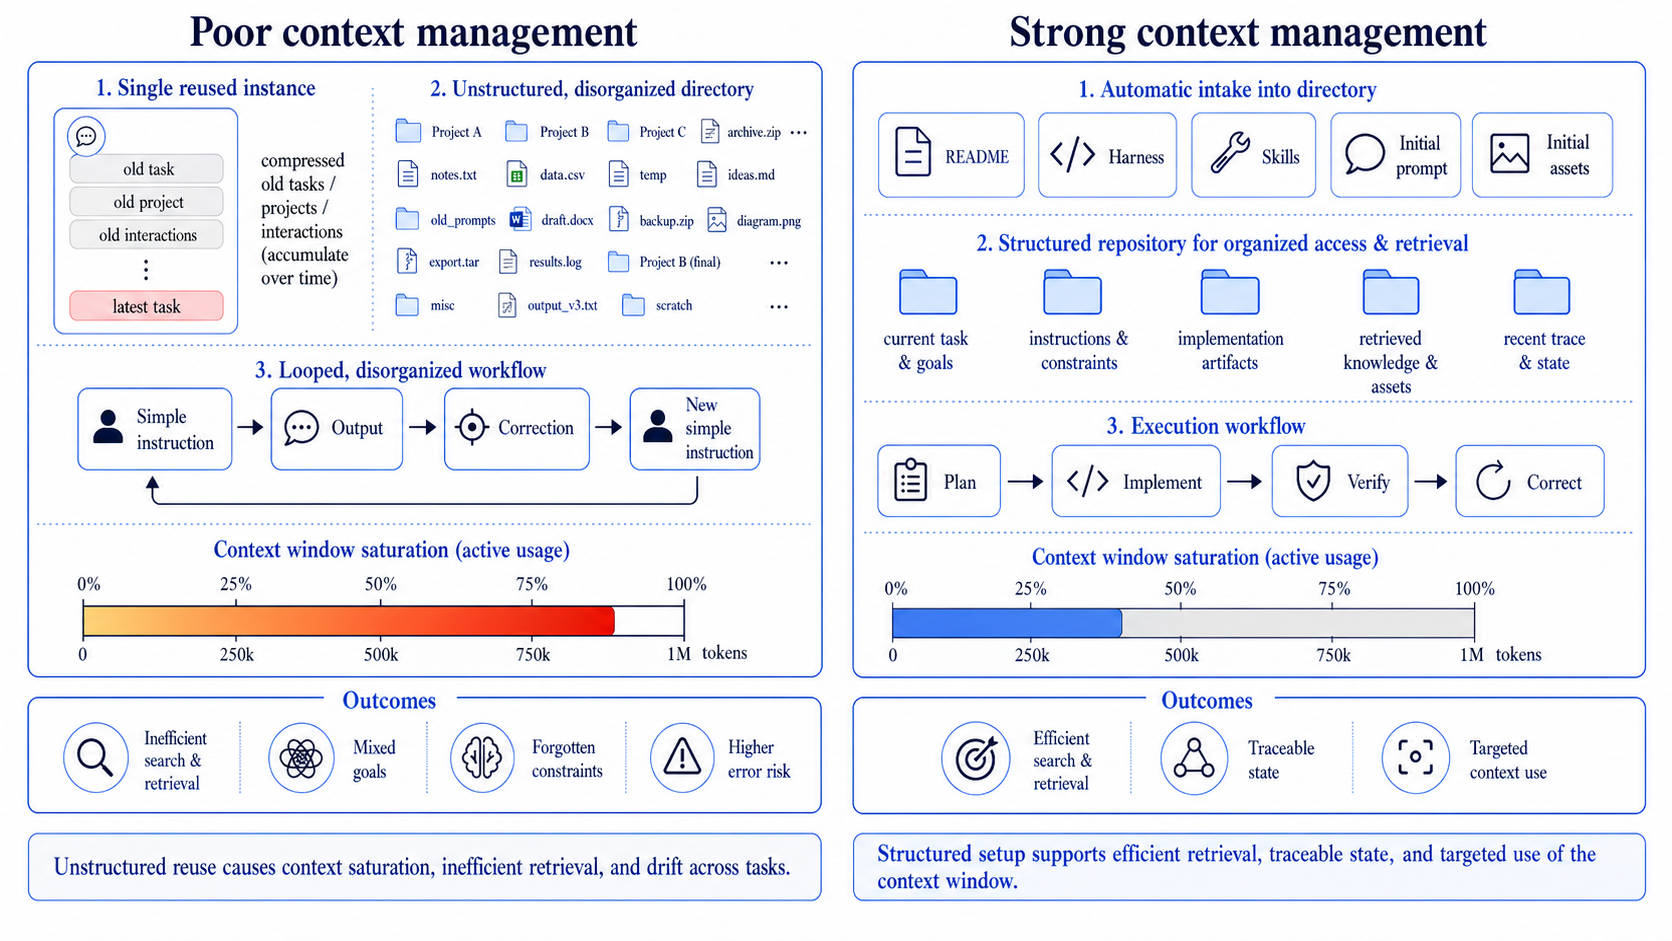
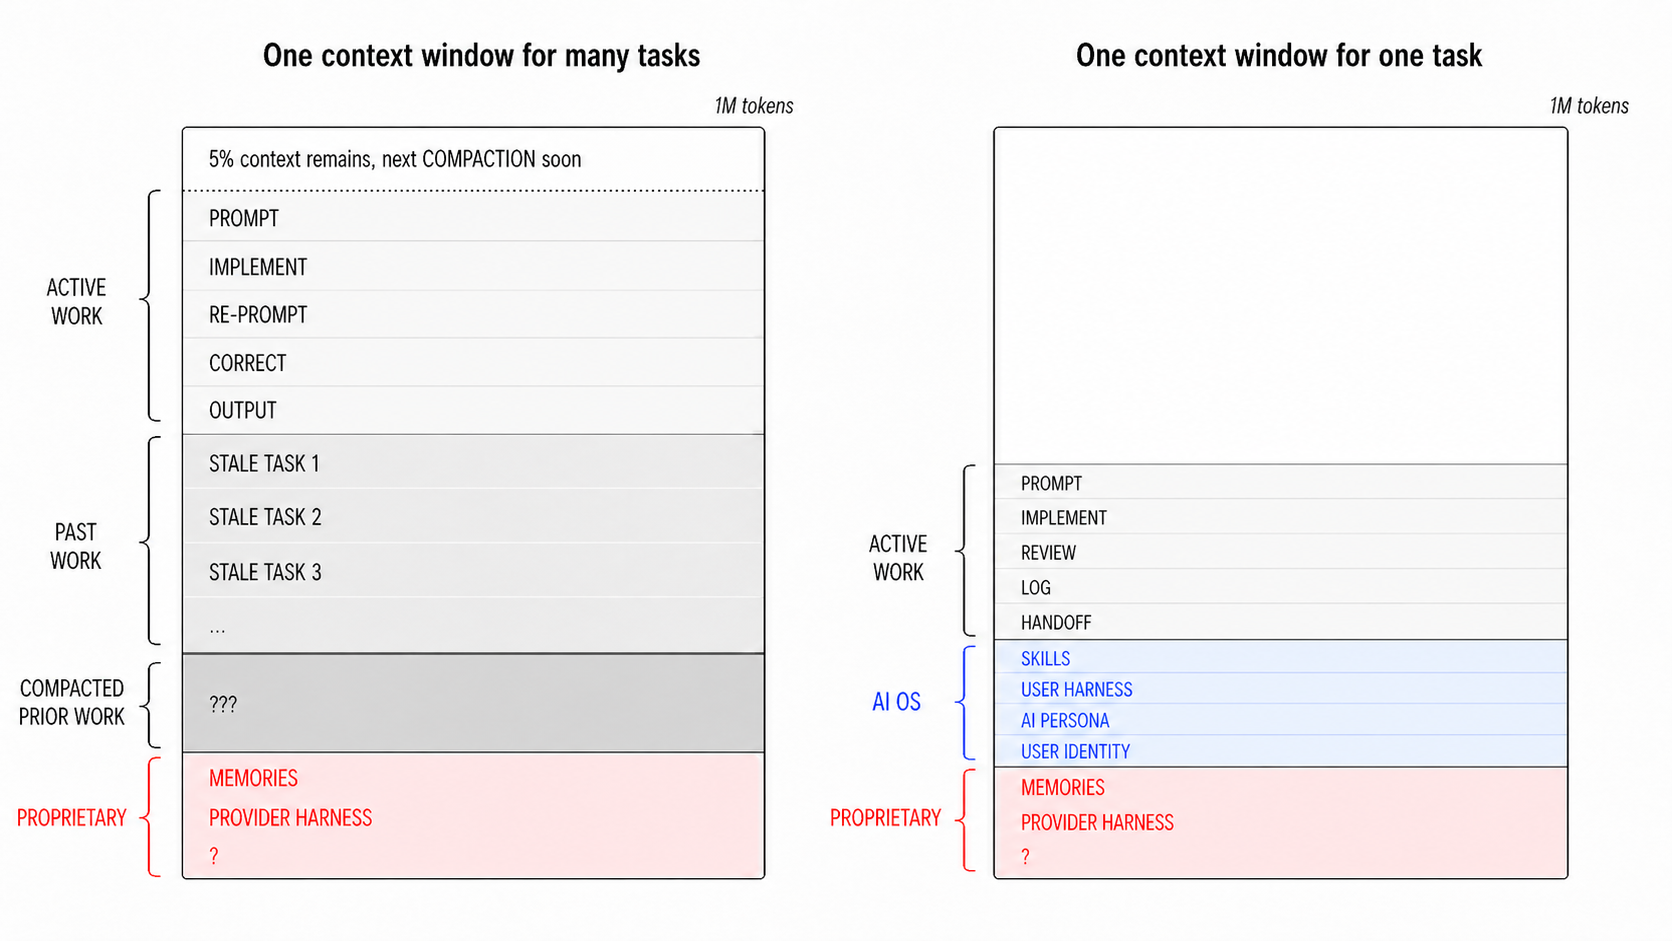
Restructure landing page
- Add Best practices / Shared norms module after the lede
- Swap hero figures for simplified versions; original infographics open in CSS-only detail lightboxes
- Move Two governing principles cards under the Governance banner
- Insert task-content/error-control figure below the decide-grid
- Add How to report when AI was used section with three-layer (inputs/throughputs/outputs) framing
- Make Replication-package and Workshop-Prep CTA buttons visible against the lede background

diff --git a/docs/assets/css/style.scss b/docs/assets/css/style.scss
@@ -51,6 +51,31 @@
   border-color: #1b2740;
 }
 
+.lede .btn {
+  background-color: #fff;
+  color: #2d4373;
+  border: 1px solid #2d4373;
+}
+
+.lede .btn:hover {
+  background-color: #eef2f8;
+  color: #1b2740;
+  border-color: #1b2740;
+  text-decoration: none;
+}
+
+.lede .btn-primary {
+  background-color: #2d4373;
+  color: #fff;
+  border-color: #2d4373;
+}
+
+.lede .btn-primary:hover {
+  background-color: #1b2740;
+  color: #fff;
+  border-color: #1b2740;
+}
+
 /* ---------- Hero figure ---------- */
 
 .hero-figure {
@@ -83,6 +108,102 @@
     code { font-size: 0.78rem; }
     a { color: #2d4373; }
   }
+
+  .fig-cta {
+    margin: 0.6rem 0 0;
+  }
+}
+
+/* ---------- Figure-CTA button (small, used under hero figures) ---------- */
+
+.btn-fig {
+  display: inline-block;
+  padding: 0.35rem 0.85rem;
+  font-size: 0.85rem;
+  color: #2d4373;
+  background: #fff;
+  border: 1px solid #2d4373;
+  border-radius: 4px;
+  text-decoration: none;
+  line-height: 1.3;
+}
+
+.btn-fig:hover {
+  background: #eef2f8;
+  color: #1b2740;
+  border-color: #1b2740;
+  text-decoration: none;
+}
+
+/* ---------- CSS-only lightbox (target-driven, no JS) ---------- */
+
+.lightbox {
+  position: fixed;
+  inset: 0;
+  background: rgba(15, 22, 40, 0.88);
+  z-index: 1000;
+  opacity: 0;
+  pointer-events: none;
+  transition: opacity 0.18s ease;
+  display: flex;
+  align-items: center;
+  justify-content: center;
+  padding: 2.5rem 1rem;
+}
+
+.lightbox:target {
+  opacity: 1;
+  pointer-events: auto;
+}
+
+.lightbox-backdrop {
+  position: absolute;
+  inset: 0;
+  display: block;
+  cursor: zoom-out;
+}
+
+.lightbox-content {
+  position: relative;
+  max-width: min(1100px, 96vw);
+  max-height: 92vh;
+  background: #fff;
+  border-radius: 6px;
+  padding: 1rem 1rem 0.6rem;
+  overflow: auto;
+  box-shadow: 0 12px 40px rgba(0, 0, 0, 0.45);
+
+  img {
+    display: block;
+    width: 100%;
+    height: auto;
+    max-height: 78vh;
+    object-fit: contain;
+    border-radius: 4px;
+  }
+}
+
+.lightbox-caption {
+  margin: 0.6rem 0 0.2rem;
+  font-size: 0.82rem;
+  color: #556;
+  line-height: 1.4;
+  font-style: italic;
+
+  code { font-style: normal; font-size: 0.78rem; }
+}
+
+.lightbox-close {
+  position: absolute;
+  top: 0.35rem;
+  right: 0.7rem;
+  font-size: 1.6rem;
+  line-height: 1;
+  color: #6b7793;
+  text-decoration: none;
+  z-index: 2;
+
+  &:hover { color: #1b2740; text-decoration: none; }
 }
 
 /* ---------- Section banners (Best practice / Governance) ---------- */

diff --git a/docs/index.md b/docs/index.md
@@ -13,22 +13,33 @@ title: With Great Powers
   </p>
 </div>
 
-<figure class="hero-figure">
-  <img src="{{ '/assets/images/two-extremes.png' | relative_url }}" alt="Side-by-side infographic contrasting black-box delegation with substantive control and radical transparency in AI-assisted research.">
-  <figcaption>Two extremes of AI-assisted research — from black-box delegation to substantive control with radical transparency.</figcaption>
-  <p class="fig-provenance">Designed through a ChatGPT session (GPT-5.4 Thinking) and rendered with OpenAI <code>gpt-image-2</code> on 2026-04-23. Full production transcript: <a href="https://github.com/simonepaciphd/with-great-powers/blob/main/scripts/image-generation-chat.txt" target="_blank" rel="noopener"><code>scripts/image-generation-chat.txt</code></a>.</p>
-</figure>
+## Best practices and shared norms
 
-## Two governing principles
+Adoption has outrun shared practice and norms. Agentic AI raises two distinct questions for the research community.
 
 <div class="principles">
   <div class="principle">
-    <h3>Researcher control</h3>
-    <p>Every substantive decision — framing, empirical design, interpretation, final phrasing — stays with the researcher. Execution may be delegated; ownership and judgment cannot.</p>
+    <h3>Best practices</h3>
+    <p><em>Using AI effectively while reducing error.</em> Every new method comes with new failure modes, and the familiar task is to learn them, build the routines that catch them, and codify what works. The paper's first half lays out a five-layer workflow stack — tool, harness, context, prompt, agent management — that does exactly this.</p>
   </div>
   <div class="principle">
-    <h3>Radical transparency</h3>
-    <p>A credible replication package must now extend to the <em>inputs, throughputs, and outputs</em> of the AI-assisted process itself — not just data and code.</p>
+    <h3>Shared norms</h3>
+    <p><em>Using AI responsibly and transparently.</em> This is genuinely new. Agentic AI is the first methodology that takes <em>agency</em> in the research process — drafting, executing, deciding. It shapes not just the <em>error rate</em> of findings but the <em>direction</em> of research itself. That demands norms the field does not yet have. The paper's second half — <em>Governance</em> — proposes two: <em>researcher control</em> over every substantive decision, and <em>radical transparency</em> over the AI-assisted process.</p>
+  </div>
+</div>
+
+<figure class="hero-figure">
+  <img src="{{ '/assets/images/good-bad-practices.png' | relative_url }}" alt="Side-by-side simplified infographic contrasting bad and good practice in AI-assisted research.">
+  <figcaption>Bad vs. good practice in AI-assisted research — from black-box delegation to disciplined control with transparency.</figcaption>
+  <p class="fig-cta"><a class="btn-fig" href="#fig-two-extremes-detail">View detailed infographic</a></p>
+</figure>
+
+<div id="fig-two-extremes-detail" class="lightbox" aria-hidden="true">
+  <a href="#!" class="lightbox-backdrop" aria-label="Close"></a>
+  <div class="lightbox-content">
+    <a href="#!" class="lightbox-close" aria-label="Close">×</a>
+    <img src="{{ '/assets/images/two-extremes.png' | relative_url }}" alt="Detailed side-by-side infographic contrasting black-box delegation with substantive control and radical transparency in AI-assisted research.">
+    <p class="lightbox-caption">Two extremes of AI-assisted research — from black-box delegation to substantive control with radical transparency. Designed through a ChatGPT session (GPT-5.4 Thinking) and rendered with OpenAI <code>gpt-image-2</code> on 2026-04-23.</p>
   </div>
 </div>
 
@@ -93,10 +104,19 @@ Every agent run consumes a finite **context window**. Once it fills, the model s
 That same project folder is what makes radical transparency possible. It doubles as a **sandbox repository** — a single directory carrying everything the agent needs (background concepts, literature, data, scripts, feedback) *and* a record of how each piece got there. Every asset is flagged for provenance (`human` / `agent` / `mixed`) and verification (`not-verified` / `partially-verified` / `human-verified`); every non-trivial agent session is logged. The replication package now documents the AI's role — not just the final data and code.
 
 <figure class="hero-figure">
-  <img src="{{ '/assets/images/context-management.png' | relative_url }}" alt="Side-by-side infographic contrasting poor context management (single mixed instance, unstructured directory, looped disorganized workflow, context-window saturation) with strong context management (automatic intake into a structured repository and a plan-instruct-verify-correct execution workflow).">
+  <img src="{{ '/assets/images/context-management.png' | relative_url }}" alt="Stylized side-by-side infographic contrasting poor and strong context management in AI-assisted research.">
   <figcaption>Poor vs. strong context management — from a single saturated instance to a structured repository with a disciplined execution workflow.</figcaption>
-  <p class="fig-provenance">Designed through a ChatGPT session (GPT-5.4 Thinking) and rendered with OpenAI <code>gpt-image-2</code> on 2026-04-24.</p>
+  <p class="fig-cta"><a class="btn-fig" href="#fig-context-management-detail">View detailed infographic</a></p>
 </figure>
+
+<div id="fig-context-management-detail" class="lightbox" aria-hidden="true">
+  <a href="#!" class="lightbox-backdrop" aria-label="Close"></a>
+  <div class="lightbox-content">
+    <a href="#!" class="lightbox-close" aria-label="Close">×</a>
+    <img src="{{ '/assets/images/context-management-detail.png' | relative_url }}" alt="Detailed side-by-side infographic contrasting poor context management (single mixed instance, unstructured directory, looped disorganized workflow, context-window saturation) with strong context management (automatic intake into a structured repository and a plan-instruct-verify-correct execution workflow).">
+    <p class="lightbox-caption">Poor vs. strong context management — full detail. Designed through a ChatGPT session (GPT-5.4 Thinking) and rendered with OpenAI <code>gpt-image-2</code> on 2026-04-24.</p>
+  </div>
+</div>
 
 <div class="tree-and-workflows">
 <pre class="tree">
@@ -135,6 +155,19 @@ project/
   <span class="sub">substantive control and radical transparency</span>
 </div>
 
+## Two governing principles
+
+<div class="principles">
+  <div class="principle">
+    <h3>Researcher control</h3>
+    <p>Every substantive decision — framing, empirical design, interpretation, final phrasing — stays with the researcher. Execution may be delegated; ownership and judgment cannot.</p>
+  </div>
+  <div class="principle">
+    <h3>Radical transparency</h3>
+    <p>A credible replication package must now extend to the <em>inputs, throughputs, and outputs</em> of the AI-assisted process itself — not just data and code.</p>
+  </div>
+</div>
+
 Both governing principles need to bite at the operational level. **Substantive control** means drawing a hard line between procedural work that may be delegated and substantive judgment that must not — and operating accordingly. **Radical transparency** means treating the project folder as the audit trail and releasing it as part of the replication package.
 
 ## How to decide when to use AI?
@@ -165,6 +198,23 @@ Before delegating any task, ask one question: is the work **procedural** or **su
     </ul>
   </div>
 </div>
+
+<figure class="hero-figure">
+  <img src="{{ '/assets/images/task-content-ai-error-control.png' | relative_url }}" alt="Diagram positioning research tasks along axes of substantive content and AI error vs. researcher control.">
+  <figcaption>Where AI fits across research tasks — error and control as a function of task content.</figcaption>
+</figure>
+
+## How to report when AI was used?
+
+Releasing data and code is no longer enough. When agents have drafted, decided, or executed parts of the work, a credible replication package must extend three layers further — to the **inputs, throughputs, and outputs of the AI-assisted process** itself:
+
+- **Inputs** — the prompts, plans, and context materials given to the agent.
+- **Throughputs** — the agent's reasoning, intermediate outputs, and sign-off gates.
+- **Outputs** — final artifacts tagged with model and version metadata.
+
+The paper proposes a feasible, low-friction implementation: two CSV ledgers maintained inside the project folder. An **asset registry** flags every artifact's provenance (`human` / `agent` / `mixed`) and verification status; an **interaction log** summarizes every non-trivial agent session (date, input, output, model metadata). The project folder itself, with the ledgers inside it, becomes the audit trail.
+
+The cost is real — authors log, register, and verify; reviewers read, cross-check, and judge. The consoling point is that the same tools that raise the bar also help meet it: interaction logs are written in-session rather than reconstructed afterward, and asset registries are updated by the same agents that produce the assets.
 
 ## What's in the replication package
 
